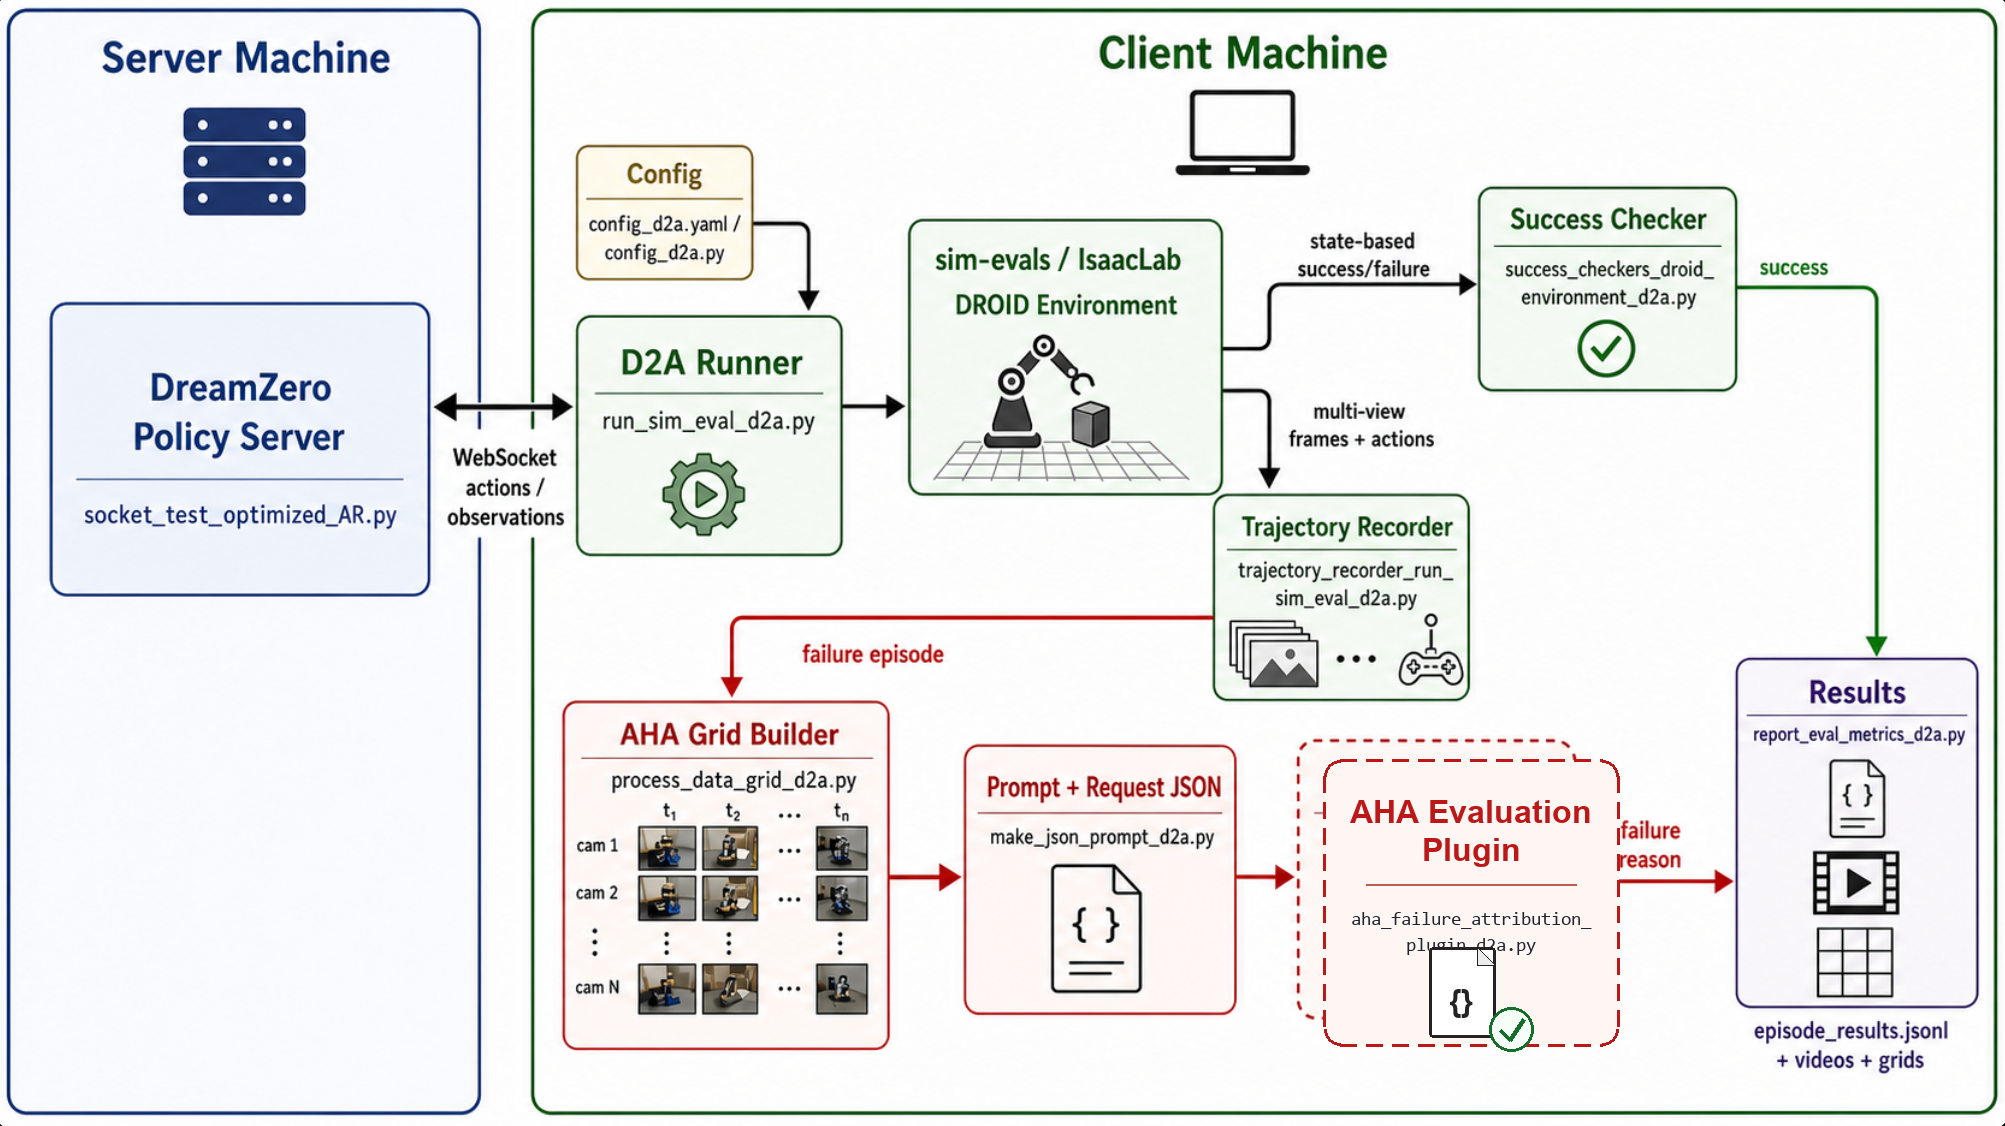
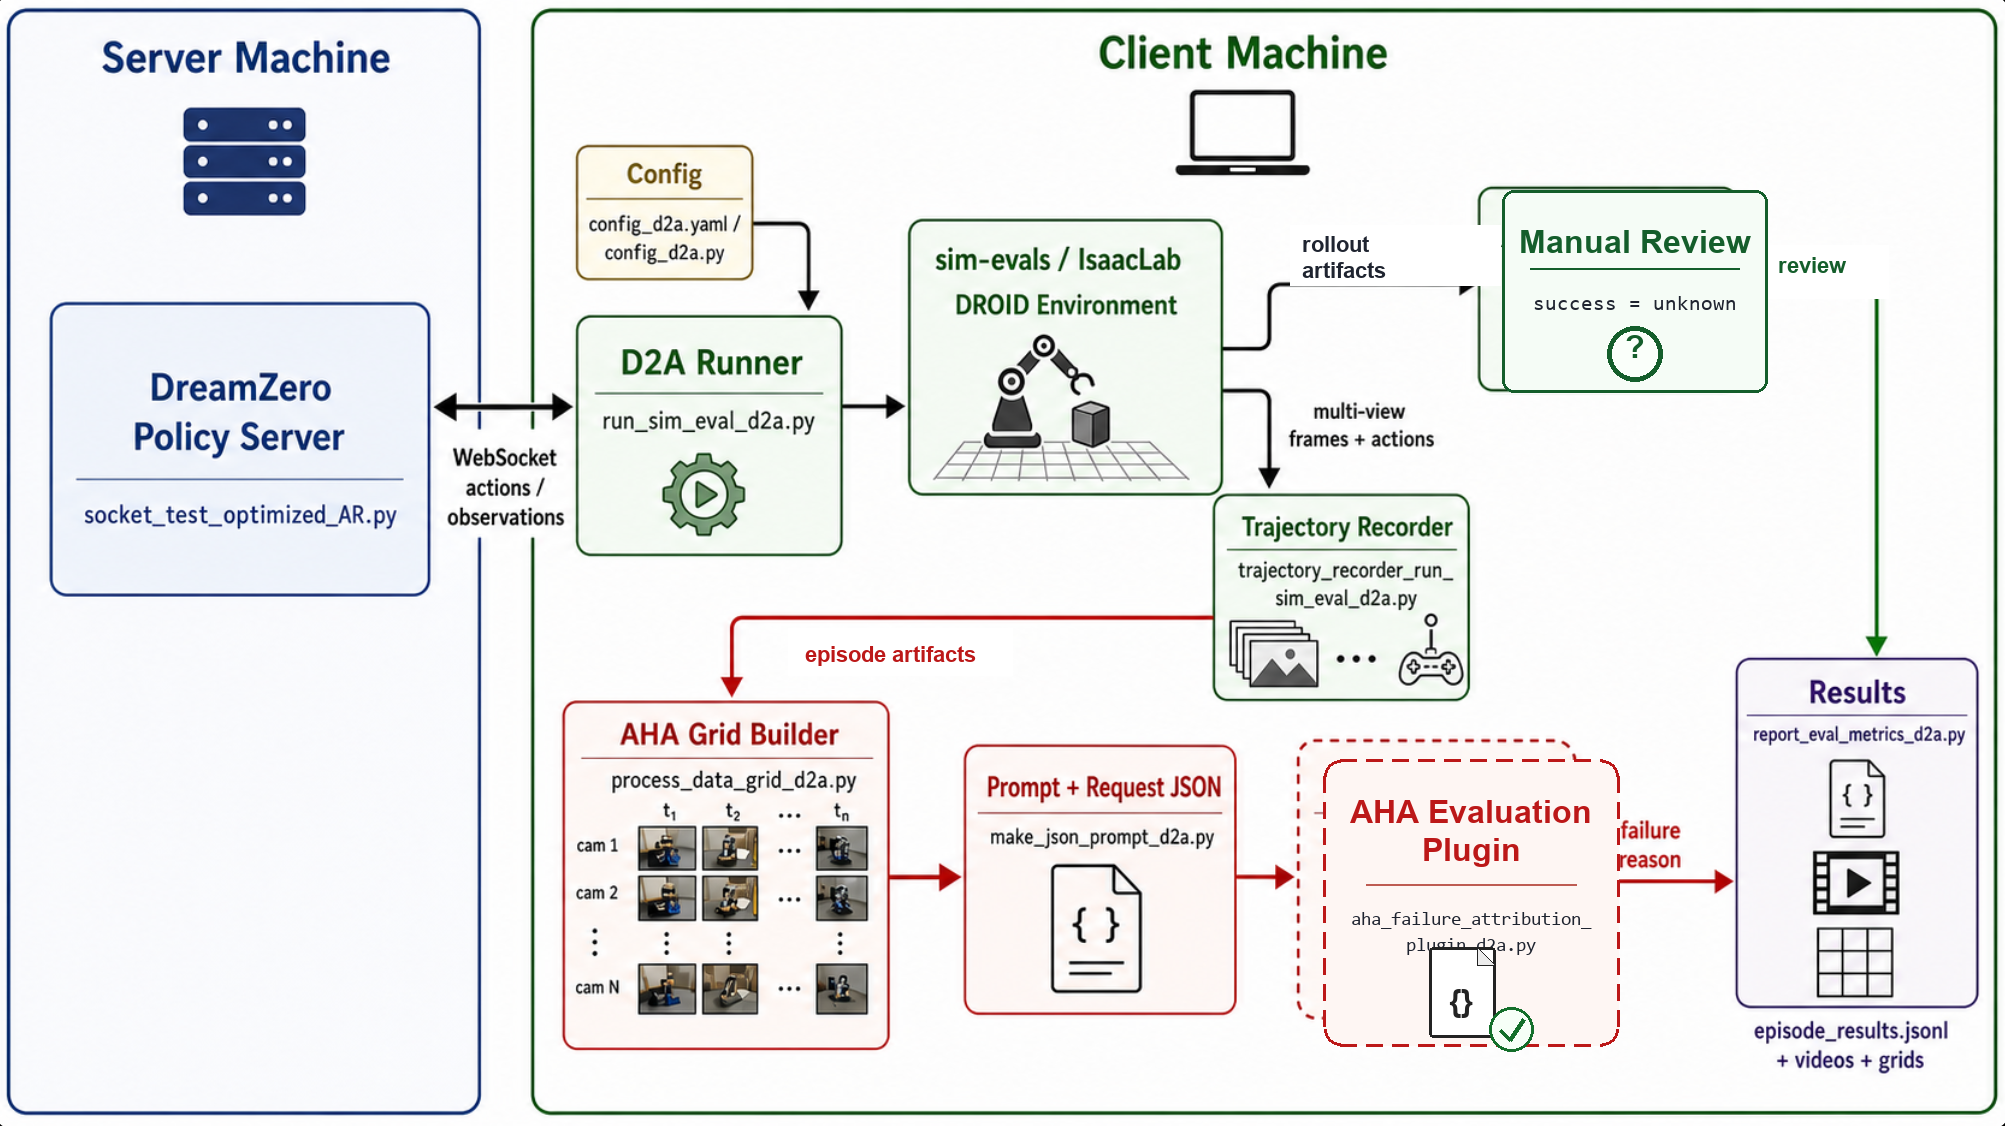
Remove automatic success checking

Changed region(s): [[0.6494, 0.1554, 0.9277, 0.373], [0.402, 0.5595, 0.4948, 0.5906]]

diff --git a/run_sim_eval_d2a.py b/run_sim_eval_d2a.py
@@ -43,7 +43,6 @@ from make_json_prompt_d2a import build_aha_request, build_failure_prompt, write_
 from process_data_grid_d2a import build_aha_grid, sample_indices
 from report_eval_metrics_d2a import append_episode_jsonl
 from schemas_d2a import EpisodeResult
-from success_checkers_droid_environment_d2a import check_scene_success
 from trajectory_recorder_run_sim_eval_d2a import DreamZero2AHATrajectoryRecorder, extract_views_from_obs
 
 DreamZeroJointPosClient = dreamzero_run_sim_eval.DreamZeroJointPosClient
@@ -131,15 +130,12 @@ def main(
             episode_dir = run_dir / f"episode_{ep:04d}"
             recorder = DreamZero2AHATrajectoryRecorder(episode_dir)
             video = []
-            final_success = False
-            final_probe = {}
             end_reason = "max_steps"
 
             for step in tqdm(range(episode_max_steps), desc=f"Episode {ep + 1}/{episodes}", leave=True):
                 ret = client.infer(obs, task_prompt)
                 views = extract_views_from_obs(obs)
-                success_now, probe = check_scene_success(env, scene)
-                recorder.record_step(step, views, action=ret["action"], success_probe=probe)
+                recorder.record_step(step, views, action=ret["action"])
 
                 if not headless:
                     cv2.imshow("DreamZero2AHA", cv2.cvtColor(ret["viz"], cv2.COLOR_RGB2BGR))
@@ -148,11 +144,6 @@ def main(
 
                 action = torch.tensor(ret["action"])[None]
                 obs, _, term, trunc, _ = env.step(action)
-                if success_now:
-                    final_success = True
-                    final_probe = probe
-                elif not final_success:
-                    final_probe = probe
                 if term or trunc:
                     end_reason = "terminated" if term else "truncated"
                     break
@@ -161,34 +152,31 @@ def main(
             video_path = episode_dir / f"episode_{ep}.mp4"
             mediapy.write_video(video_path, video, fps=video_fps)
 
-            grid_path = None
-            request_path = None
+            sampled_frame_indices = sample_indices(len(recorder.records), keyframes)
+            recorder.write_frames(sampled_frame_indices)
+            grid_path = build_aha_grid(recorder.records, episode_dir / f"episode_{ep}_aha_grid.jpg", keyframes=keyframes)
+            request = build_aha_request(
+                request_id=f"scene{scene}_episode{ep}",
+                image_path=grid_path,
+                instruction=task_prompt,
+                scene=scene,
+            )
+            request_path = write_aha_request_json(request, episode_dir / "aha_request.json")
             attribution = None
-            if not final_success:
-                sampled_frame_indices = sample_indices(len(recorder.records), keyframes)
-                recorder.write_frames(sampled_frame_indices)
-                grid_path = build_aha_grid(recorder.records, episode_dir / f"episode_{ep}_aha_grid.jpg", keyframes=keyframes)
-                request = build_aha_request(
-                    request_id=f"scene{scene}_episode{ep}",
+            if enable_aha_plugin:
+                failure_prompt = build_failure_prompt(task_prompt, scene)
+                attribution = aha_plugin.record_failure_case(
                     image_path=grid_path,
-                    instruction=task_prompt,
-                    scene=scene,
+                    prompt=failure_prompt,
+                    request_json=request_path,
                 )
-                request_path = write_aha_request_json(request, episode_dir / "aha_request.json")
-                if enable_aha_plugin:
-                    failure_prompt = build_failure_prompt(task_prompt, scene)
-                    attribution = aha_plugin.record_failure_case(
-                        image_path=grid_path,
-                        prompt=failure_prompt,
-                        request_json=request_path,
-                    )
 
             recorder.write_steps_json()
             result = EpisodeResult(
                 episode=ep,
                 scene=scene,
                 prompt=task_prompt,
-                success=final_success,
+                success="unknown",
                 end_reason=end_reason,
                 steps=len(recorder.records),
                 output_dir=str(episode_dir),
@@ -196,7 +184,7 @@ def main(
                 aha_grid_path=str(grid_path) if grid_path else None,
                 aha_request_path=str(request_path) if request_path else None,
                 attribution=attribution,
-                success_probe=final_probe,
+                success_probe={},
             )
             append_episode_jsonl(result, results_path)
 

diff --git a/report_eval_metrics_d2a.py b/report_eval_metrics_d2a.py
@@ -21,17 +21,19 @@ def append_episode_jsonl(result: EpisodeResult, output_path: str | Path) -> Path
 def summarize_results(results: Iterable[EpisodeResult]) -> dict:
     rows = list(results)
     total = len(rows)
-    successes = sum(1 for row in rows if row.success)
+    successes = sum(1 for row in rows if row.success is True)
+    unknown = sum(1 for row in rows if row.success == "unknown")
     failure_types = Counter()
     for row in rows:
-        if row.success:
+        if row.success is True:
             continue
         failure_type = row.attribution.failure_type if row.attribution is not None else "unknown"
         failure_types[failure_type] += 1
     return {
         "total": total,
         "successes": successes,
-        "failures": total - successes,
+        "failures": total - successes - unknown,
+        "unknown": unknown,
         "success_rate": successes / total if total else 0.0,
         "failure_types": dict(failure_types),
     }

diff --git a/schemas_d2a.py b/schemas_d2a.py
@@ -56,7 +56,7 @@ class EpisodeResult:
     episode: int
     scene: int
     prompt: str
-    success: bool
+    success: bool | Literal["unknown"]
     end_reason: str
     steps: int
     output_dir: str
@@ -68,7 +68,7 @@ class EpisodeResult:
 
     def to_dict(self) -> dict[str, Any]:
         failure_type = None
-        if not self.success and self.attribution is not None:
+        if self.success != True and self.attribution is not None:
             failure_type = self.attribution.failure_type
 
         return {

diff --git a/README.md b/README.md
@@ -5,8 +5,8 @@ DreamZero2AHA is a non-invasive adapter project for evaluating DreamZero simulat
 The key idea is:
 
 1. DreamZero runs the policy in `sim-evals`.
-2. The simulator state provides a rule-based success/failure decision.
-3. Failed episodes are converted into AHA-style multi-view temporal grids.
+2. Rollouts are recorded without automatic success/failure judgment.
+3. Episodes are converted into AHA-style multi-view temporal grids.
 4. The grid and prompt are saved as AHA-ready evaluation artifacts.
 5. Results are written as per-episode JSONL files.
 
@@ -21,7 +21,6 @@ This project provides derivative adapter files whose names preserve the source c
 - `config_d2a.yaml`: editable project config for DreamZero path, AHA path, and output path
 - `config_d2a.py`: config loader that resolves relative/absolute paths from `config_d2a.yaml`
 - `run_sim_eval_d2a.py`: derivative runner based on DreamZero `eval_utils/run_sim_eval.py`
-- `success_checkers_droid_environment_d2a.py`: success probes for sim-evals DROID scenes
 - `trajectory_recorder_run_sim_eval_d2a.py`: camera/action recorder for DreamZero rollouts
 - `process_data_grid_d2a.py`: AHA-style grid builder inspired by AHA `process_data.py`
 - `make_json_prompt_d2a.py`: AHA conversation JSON builder inspired by AHA `make_json.py`
@@ -64,15 +63,15 @@ Useful runner arguments:
 - `--keyframes`: number of temporal columns sampled into the AHA grid
 - `--max-steps`: optional per-episode step cap; defaults to the environment max episode length
 - `--video-fps`: saved rollout video frame rate
-- `--enable-aha-plugin` / `--no-enable-aha-plugin`: whether to record AHA attribution plugin metadata for failed episodes
+- `--enable-aha-plugin` / `--no-enable-aha-plugin`: whether to record AHA attribution plugin metadata
 
 Outputs are written under `DreamZero2AHA/output/` by default and include:
 
 - `episode_XXXX/frames/`
 - `episode_XXXX/steps.json`
 - `episode_XXXX/episode_N.mp4`
-- `episode_XXXX/episode_N_aha_grid.jpg` for failures
-- `episode_XXXX/aha_request.json` for failures
+- `episode_XXXX/episode_N_aha_grid.jpg`
+- `episode_XXXX/aha_request.json`
 - `episode_results.jsonl`
 
 Each JSONL row uses a flat evaluation schema:
@@ -82,7 +81,7 @@ Each JSONL row uses a flat evaluation schema:
   "episode": 0,
   "scene": 1,
   "prompt": "put the cube in the bowl",
-  "success": false,
+  "success": "unknown",
   "failure_type": "unknown",
   "video_path": "...",
   "aha_grid_path": "...",
@@ -90,7 +89,7 @@ Each JSONL row uses a flat evaluation schema:
 }
 ```
 
-For successful episodes, `failure_type` is `null`. Task progress fields are reserved for later and are not emitted yet.
+Automatic success checking is disabled. Each episode is written with `"success": "unknown"`. Task progress fields are reserved for later and are not emitted yet.
 
 ## Project Changelog
 

diff --git a/README_ch.md b/README_ch.md
@@ -5,8 +5,8 @@ DreamZero2AHA 是一个非侵入式适配子工程，用来把 DreamZero 仿真 
 核心思路是：
 
 1. DreamZero 在 `sim-evals` 中执行策略。
-2. 仿真状态提供规则式成功/失败判定。
-3. 失败 episode 被转换成 AHA 风格的多视角时间网格图。
+2. rollout 会被记录，但不做自动成功/失败判定。
+3. episode 被转换成 AHA 风格的多视角时间网格图。
 4. 网格图和 prompt 被保存成 AHA 评测插件可消费的归因样本。
 5. 每个 episode 的结果写入 JSONL。
 
@@ -21,7 +21,6 @@ DreamZero2AHA 是一个非侵入式适配子工程，用来把 DreamZero 仿真 
 - `config_d2a.yaml`：可编辑的工程配置，记录 DreamZero 路径、AHA 路径和输出路径
 - `config_d2a.py`：配置加载器，负责读取 `config_d2a.yaml` 并解析相对/绝对路径
 - `run_sim_eval_d2a.py`：基于 DreamZero `eval_utils/run_sim_eval.py` 派生的评测入口
-- `success_checkers_droid_environment_d2a.py`：面向 sim-evals DROID 场景的成功判定
 - `trajectory_recorder_run_sim_eval_d2a.py`：DreamZero rollout 的相机和动作记录器
 - `process_data_grid_d2a.py`：参考 AHA `process_data.py` 的网格图生成器
 - `make_json_prompt_d2a.py`：参考 AHA `make_json.py` 的对话 JSON 生成器
@@ -64,15 +63,15 @@ runner 会读取 `config_d2a.yaml`，把配置中的 DreamZero 根目录、`eval
 - `--keyframes`：AHA 网格图采样的时间列数量
 - `--max-steps`：可选的单个 episode 最大步数；不填时使用环境默认 episode 长度
 - `--video-fps`：保存 rollout 视频的帧率
-- `--enable-aha-plugin` / `--no-enable-aha-plugin`：失败 episode 是否记录 AHA 评测插件元数据
+- `--enable-aha-plugin` / `--no-enable-aha-plugin`：是否记录 AHA 评测插件元数据
 
 默认输出会写到 `DreamZero2AHA/output/`，内容如下：
 
 - `episode_XXXX/frames/`
 - `episode_XXXX/steps.json`
 - `episode_XXXX/episode_N.mp4`
-- 失败时生成 `episode_XXXX/episode_N_aha_grid.jpg`
-- 失败时生成 `episode_XXXX/aha_request.json`
+- `episode_XXXX/episode_N_aha_grid.jpg`
+- `episode_XXXX/aha_request.json`
 - `episode_results.jsonl`
 
 每一行 JSONL 核心内容如下：
@@ -82,7 +81,7 @@ runner 会读取 `config_d2a.yaml`，把配置中的 DreamZero 根目录、`eval
   "episode": 0,
   "scene": 1,
   "prompt": "put the cube in the bowl",
-  "success": false,
+  "success": "unknown",
   "failure_type": "unknown",
   "video_path": "...",
   "aha_grid_path": "...",
@@ -90,7 +89,7 @@ runner 会读取 `config_d2a.yaml`，把配置中的 DreamZero 根目录、`eval
 }
 ```
 
-成功 episode 的 `failure_type` 为 `null`。task progress 相关字段先预留，当前还不会输出。
+当前关闭自动成功判定，每个 episode 的 `success` 都写为 `"unknown"`。task progress 相关字段先预留，当前还不会输出。
 
 ## 项目修改日志
 